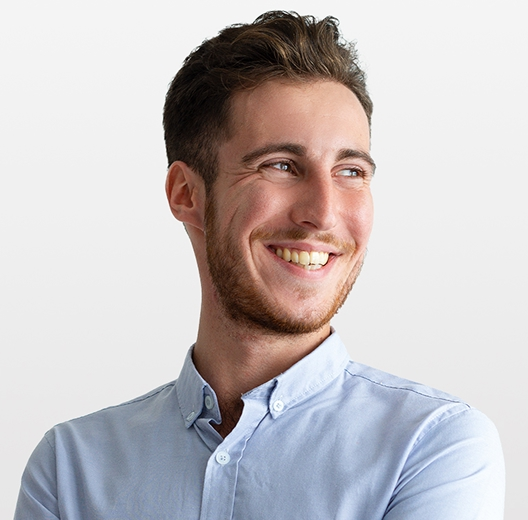
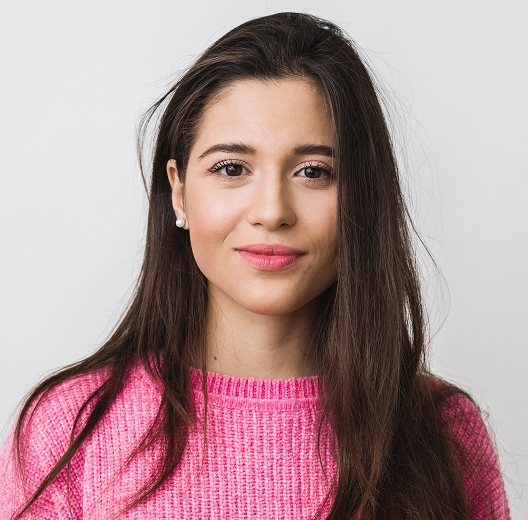
6,2

diff --git a/index.html b/index.html
@@ -140,6 +140,10 @@
             <li class="team-item">
               <img
                 src="./images/our-team/img1.jpg"
+                srcset="
+                  ./images/our-team/img1.jpg    1x,
+                  ./images/our-team/img1@2x.jpg 2x
+                "
                 alt="Mark Guerrero"
                 width="264"
               />
@@ -182,6 +186,10 @@
             <li class="team-item">
               <img
                 src="./images/our-team/img2.jpg"
+                srcset="
+                  ./images/our-team/img2.jpg    1x,
+                  ./images/our-team/img2@2x.jpg 2x
+                "
                 alt="Tom Ford"
                 width="264"
               />
@@ -224,6 +232,10 @@
             <li class="team-item">
               <img
                 src="./images/our-team/img3.jpg"
+                srcset="
+                  ./images/our-team/img3.jpg    1x,
+                  ./images/our-team/img3@2x.jpg 2x
+                "
                 alt="Camila Garcia"
                 width="264"
               />
@@ -266,6 +278,10 @@
             <li class="team-item">
               <img
                 src="./images/our-team/img4.jpg"
+                srcset="
+                  ./images/our-team/img4.jpg    1x,
+                  ./images/our-team/img4@2x.jpg 2x
+                "
                 alt="Daniel Wilson"
                 width="264"
               />
@@ -318,6 +334,10 @@
               <div class="portfolio-thumb">
                 <img
                   src="./images/portfolio/img5.jpg"
+                  srcset="
+                    ./images/portfolio/img5.jpg    1x,
+                    ./images/portfolio/img5@2x.jpg 2x
+                  "
                   alt="Banking App"
                   width="360"
                   height="300"
@@ -334,6 +354,10 @@
               <div class="portfolio-thumb">
                 <img
                   src="./images/portfolio/img6.jpg"
+                  srcset="
+                    ./images/portfolio/img6.jpg    1x,
+                    ./images/portfolio/img6@2x.jpg 2x
+                  "
                   alt="Cashless Payment"
                   width="360"
                   height="300"
@@ -354,6 +378,10 @@
               <div class="portfolio-thumb">
                 <img
                   src="./images/portfolio/img7.jpg"
+                  srcset="
+                    ./images/portfolio/img7.jpg    1x,
+                    ./images/portfolio/img7@2x.jpg 2x
+                  "
                   alt="Meditation App"
                   width="360"
                   height="300"
@@ -371,6 +399,10 @@
               <div class="portfolio-thumb">
                 <img
                   src="./images/portfolio/img8.jpg"
+                  srcset="
+                    ./images/portfolio/img8.jpg    1x,
+                    ./images/portfolio/img8@2x.jpg 2x
+                  "
                   alt="Taxi Service"
                   width="360"
                   height="300"
@@ -387,6 +419,10 @@
               <div class="portfolio-thumb">
                 <img
                   src="./images/portfolio/img9.jpg"
+                  srcset="
+                    ./images/portfolio/img9.jpg    1x,
+                    ./images/portfolio/img9@2x.jpg 2x
+                  "
                   alt="Screen Illustrations"
                   width="360"
                   height="300"
@@ -403,6 +439,10 @@
               <div class="portfolio-thumb">
                 <img
                   src="./images/portfolio/img10.jpg"
+                  srcset="
+                    ./images/portfolio/img10.jpg    1x,
+                    ./images/portfolio/img10@2x.jpg 2x
+                  "
                   alt="Banking App"
                   width="360"
                   height="300"
@@ -492,6 +532,7 @@
         </div>
       </div>
     </footer>
+
     <div class="backdrop" id="modal">
       <div class="modal">
         <button type="button" class="modal-close-btn">
@@ -575,7 +616,8 @@
         </form>
       </div>
     </div>
-    <div class="mobile-menu is-open" id="mobile-menu">
+
+    <div class="mobile-menu" id="mobile-menu">
       <div class="mobile-menu-container">
         <button type="button" class="mobile-menu-close">
           <svg width="8" height="8">
@@ -602,8 +644,42 @@
               <a href="mailto:info@devstudio.com">info@devstudio.com</a>
             </li>
           </ul>
+          <ul class="mobile-social-list">
+            <li>
+              <a class="social-link" href="#">
+                <svg width="24" height="24">
+                  <use href="./images/icons.svg#icon-instagram"></use>
+                </svg>
+              </a>
+            </li>
+
+            <li>
+              <a class="social-link" href="#">
+                <svg width="24" height="24">
+                  <use href="./images/icons.svg#icon-twitter"></use>
+                </svg>
+              </a>
+            </li>
+
+            <li>
+              <a class="social-link" href="#">
+                <svg width="24" height="24">
+                  <use href="./images/icons.svg#icon-facebook"></use>
+                </svg>
+              </a>
+            </li>
+
+            <li>
+              <a class="social-link" href="#">
+                <svg width="24" height="24">
+                  <use href="./images/icons.svg#icon-linkedin"></use>
+                </svg>
+              </a>
+            </li>
+          </ul>
         </address>
       </div>
     </div>
+    <script src="./js/mobile-menu.js"></script>
   </body>
 </html>

diff --git a/css/mobile-menu.css b/css/mobile-menu.css
@@ -4,7 +4,7 @@
   left: 0;
 
   width: 100%;
-  height: 100%;
+  height: 100vh;
 
   background-color: #ffffff;
 
@@ -15,6 +15,9 @@
   transition:
     opacity 250ms ease,
     visibility 250ms ease;
+
+  z-index: 1000;
+  overflow-y: auto;
 }
 
 .mobile-menu.is-open {
@@ -29,7 +32,7 @@
   display: flex;
   flex-direction: column;
 
-  height: 100%;
+  min-height: 100vh;
 
   padding: 72px 24px 40px;
 }
@@ -49,6 +52,82 @@
   border: 1px solid rgba(0, 0, 0, 0.1);
   border-radius: 50%;
 
-  background: #e7e9fc;
+  background-color: #e7e9fc;
   cursor: pointer;
+}
+
+.mobile-nav {
+  margin-bottom: auto;
+}
+
+.mobile-nav-list {
+  display: flex;
+  flex-direction: column;
+  gap: 40px;
+}
+
+.mobile-nav-link {
+  font-size: 36px;
+  font-weight: 700;
+  line-height: 1.11;
+
+  color: #2e2f42;
+
+  transition: color 250ms ease;
+}
+
+.mobile-nav-link.current,
+.mobile-nav-link:hover,
+.mobile-nav-link:focus {
+  color: #404bbf;
+}
+
+/* CONTACTS */
+
+.mobile-contacts {
+  margin-bottom: 48px;
+}
+
+.mobile-contacts > ul:first-child {
+  display: flex;
+  flex-direction: column;
+  gap: 24px;
+}
+
+.mobile-contacts a {
+  font-size: 20px;
+  line-height: 1.2;
+
+  color: #434455;
+
+  transition: color 250ms ease;
+}
+
+.mobile-contacts a:hover,
+.mobile-contacts a:focus {
+  color: #404bbf;
+}
+
+/* SOCIAL */
+
+.mobile-social-list {
+  display: flex;
+  flex-direction: row;
+  gap: 40px;
+
+  margin-top: 48px;
+}
+
+.menu-open-btn {
+  display: flex;
+}
+
+@media screen and (min-width: 768px) {
+  .menu-open-btn {
+    display: none;
+  }
+
+  .mobile-menu {
+    display: none;
+  }
 }

diff --git a/js/mobile-menu.js b/js/mobile-menu.js
@@ -1,0 +1,30 @@
+const openMenuBtn = document.querySelector('.menu-open-btn');
+const closeMenuBtn = document.querySelector('.mobile-menu-close');
+const mobileMenu = document.querySelector('.mobile-menu');
+const mobileLinks = document.querySelectorAll('.mobile-nav-link');
+
+openMenuBtn.addEventListener('click', () => {
+  mobileMenu.classList.add('is-open');
+});
+
+closeMenuBtn.addEventListener('click', () => {
+  mobileMenu.classList.remove('is-open');
+});
+
+mobileLinks.forEach((link) => {
+  link.addEventListener('click', () => {
+    mobileMenu.classList.remove('is-open');
+  });
+});
+
+document.addEventListener('keydown', (event) => {
+  if (event.key === 'Escape') {
+    mobileMenu.classList.remove('is-open');
+  }
+});
+
+window.addEventListener('resize', () => {
+  if (window.innerWidth >= 768) {
+    mobileMenu.classList.remove('is-open');
+  }
+});
